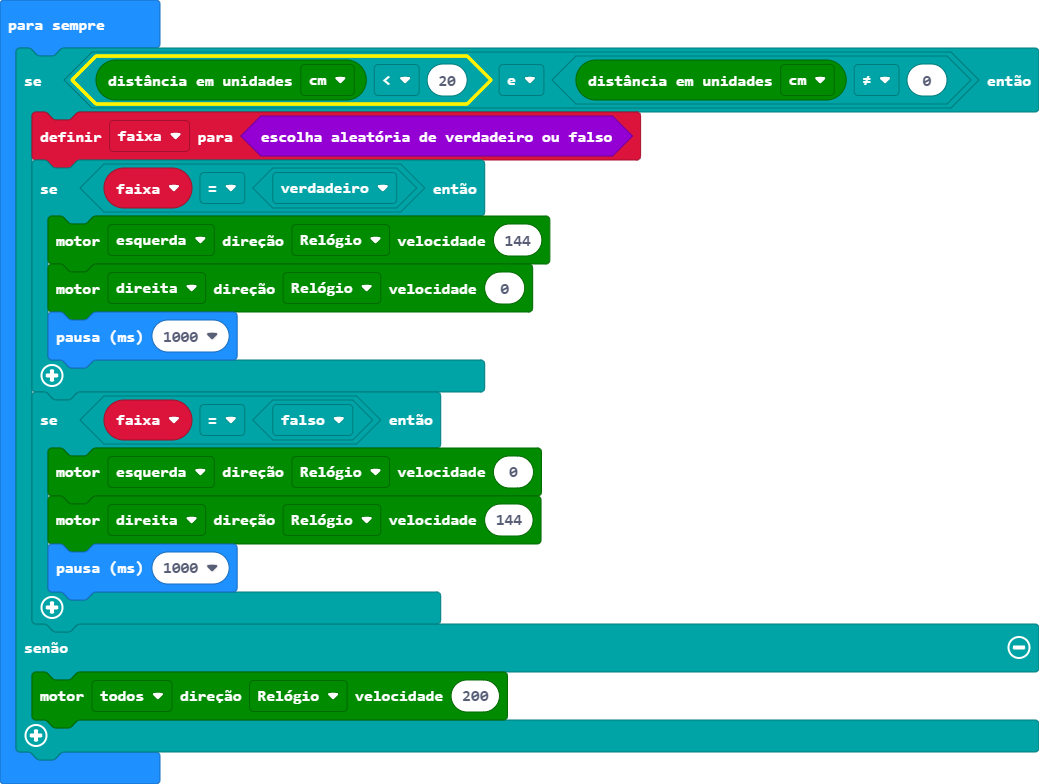
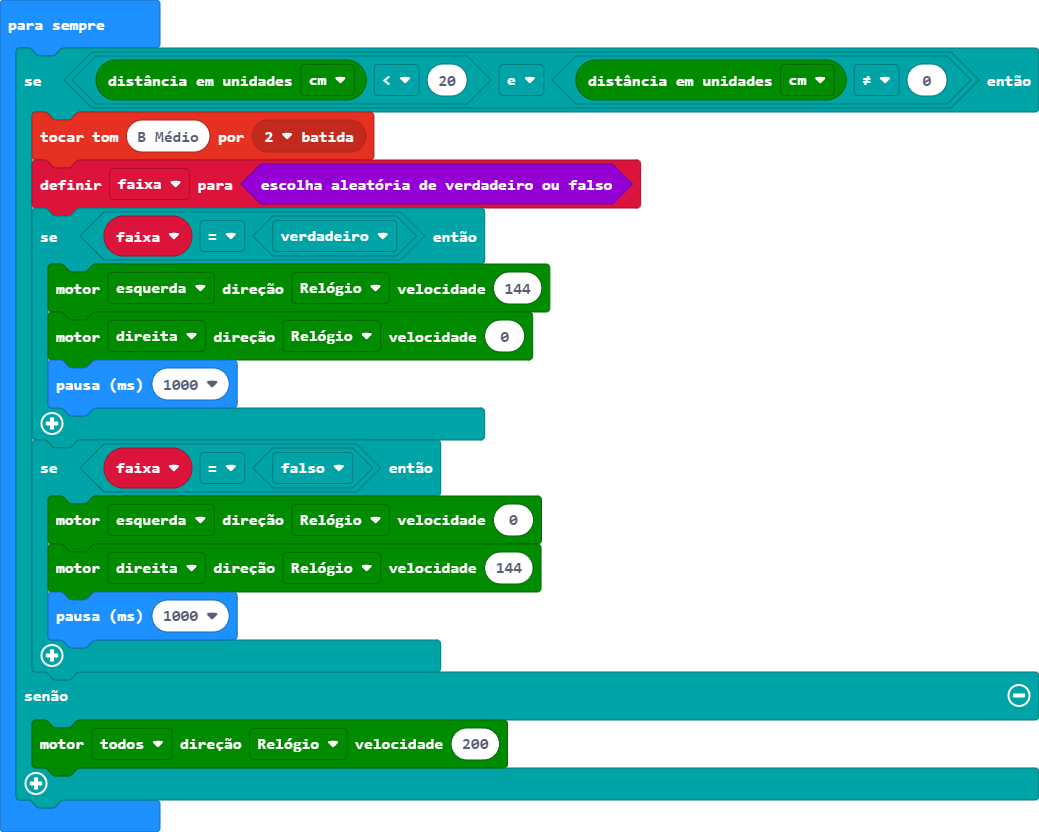
Atualização main.blocks, main.ts

Changed region(s): [[0.0, 0.0, 1.0, 0.9796]]

diff --git a/main.ts b/main.ts
@@ -1,6 +1,7 @@
 let faixa = false
 basic.forever(function () {
     if (maqueen.Ultrasonic(PingUnit.Centimeters) < 20 && maqueen.Ultrasonic(PingUnit.Centimeters) != 0) {
+        music.playTone(494, music.beat(BeatFraction.Double))
         faixa = Math.randomBoolean()
         if (faixa == true) {
             maqueen.motorRun(maqueen.Motors.M1, maqueen.Dir.CW, 144)
